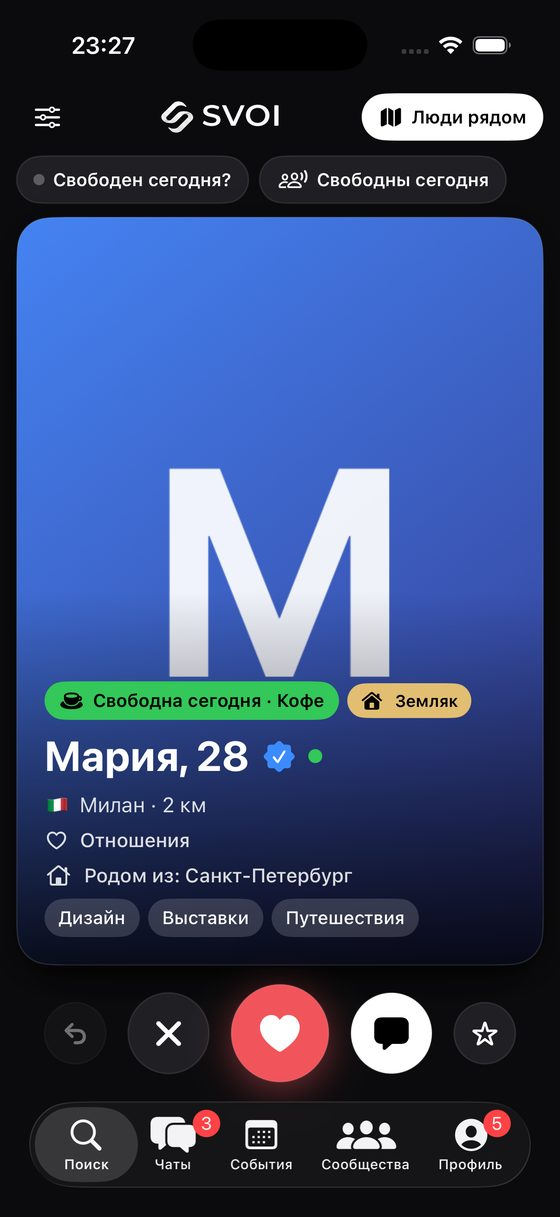
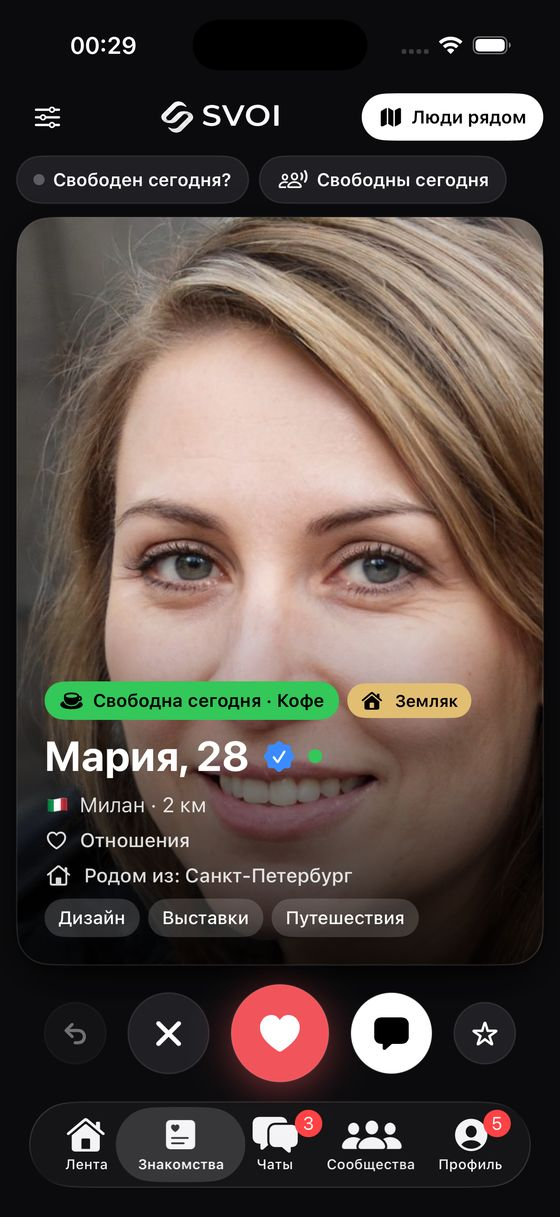
Лента, Reels и поиск на сайте; обновлены политика и условия

diff --git a/privacy/index.html b/privacy/index.html
@@ -16,6 +16,6 @@ footer{border-top:1px solid var(--line);color:var(--muted);font-size:13px;text-a
 footer a{color:var(--muted);margin:0 8px}
 </style></head>
 <body><header><a href="/"><img src="/assets/svoi-logo.png" alt="SVOI"></a><nav><a href="/privacy/">Конфиденциальность</a><a href="/terms/">Условия</a><a href="/support/">Поддержка</a></nav></header>
-<main><h1>Политика конфиденциальности</h1><p class="meta">Приложение SVOI («Свои»). Редакция от 16 ноября 2026 г.</p><h2>Кто обрабатывает данные</h2><p>Оператор (контролёр) персональных данных — MAKALOV SAKHAB, разработчик приложения SVOI. Связь по вопросам данных: <a href="mailto:team@svoiapp.info">team@svoiapp.info</a>. Мы соблюдаем Общий регламент ЕС по защите данных (GDPR).</p><h2>Какие данные мы собираем</h2><ul><li>Данные аккаунта: e-mail или идентификатор Apple ID (если вы входите через Apple, можно скрыть реальный адрес).</li><li>Анкета: имя, дата рождения (другим показываем только возраст), пол, кого вы ищете, цель знакомства, рост, образование, отношение к детям, курению и алкоголю, языки, интересы, текст «о себе», фотографии; по желанию — откуда вы родом, с какого года за границей, в чём можете помочь, голосовое приветствие и отметка «Свободен сегодня» (исчезает через 24 часа).</li><li>Местоположение: только с вашего разрешения и только «во время использования». Мы округляем координаты примерно до 1 км; другие пользователи видят лишь город и примерное расстояние, а на карте — только район размером около 2 км, а не точку.</li><li>Активность: лайки, избранное, просмотры анкет, сообщения (включая голосовые, фото и видео), участие во встречах и сообществах, жалобы и блокировки, время последнего входа.</li><li>Голосовые сообщения, фото и видео в чатах: записываются и отправляются только по вашему действию; доступ к ним имеют только участники этого чата или сообщества.</li></ul><h2>Особые категории данных</h2><p>Сведения о том, кого вы ищете, могут косвенно указывать на вашу сексуальную ориентацию. Мы обрабатываем их только для подбора анкет на основании вашего явного согласия (ст. 9(2)(a) GDPR), которое вы даёте, заполняя анкету. Вы можете изменить или удалить эти данные в любой момент.</p><h2>Зачем и на каком основании</h2><ul><li>Работа сервиса: показ анкет, поиск по расстоянию, чаты, встречи — исполнение договора (ст. 6(1)(b) GDPR).</li><li>Безопасность и модерация: фильтрация оскорблений, рассмотрение жалоб, блокировка нарушителей, защита от мошенничества — законный интерес (ст. 6(1)(f)).</li><li>Местоположение — ваше согласие (ст. 6(1)(a)), которое можно отозвать в настройках iPhone.</li><li>Выполнение требований закона — ст. 6(1)(c).</li></ul><h2>Кто видит ваши данные</h2><p>Другие пользователи видят вашу публичную анкету: имя, возраст, фото, город, примерное расстояние, текст и интересы. Дату рождения, e-mail и точные координаты не видит никто. Сообщения видят только участники переписки (и модерация — при рассмотрении жалобы). Мы не продаём данные и не передаём их рекламодателям.</p><h2>Где хранятся данные</h2><p>Данные хранятся на серверах Supabase в регионе ЕС (Франкфурт, Германия), который выступает нашим обработчиком данных. Вход через Apple обрабатывает Apple. Письма с кодами подтверждения отправляет сервис Resend (регион ЕС, Ирландия). Если обработчик передаёт данные за пределы ЕЭЗ, это происходит на основании стандартных договорных условий ЕС.</p><h2>Сколько храним</h2><p>Анкета — пока существует ваш аккаунт. Сообщения в чатах и сообществах (включая голосовые, фото и видео) автоматически удаляются через 60 дней; личная переписка удаляется раньше, если один из собеседников не заходил в приложение больше 30 дней. После удаления аккаунта анкета, фото, сообщения и симпатии удаляются сразу; резервные копии перезаписываются в течение 30 дней. Жалобы на нарушения могут храниться до 12 месяцев для защиты других пользователей.</p><h2>Ваши права</h2><p>Вы вправе: получить копию своих данных, исправить их, удалить аккаунт (Профиль → Настройки → Удалить аккаунт), ограничить обработку, возразить против неё, отозвать согласие, получить данные в машиночитаемом виде, подать жалобу в надзорный орган по защите данных в стране вашего проживания. Запросы отправляйте на <a href="mailto:team@svoiapp.info">team@svoiapp.info</a> — ответим в течение 30 дней.</p><h2>Безопасность</h2><p>Передача данных шифруется (HTTPS/TLS). Доступ к данным в базе ограничен правилами на уровне строк: пользователь получает только то, что ему положено видеть. Пароли хранятся в виде хеша.</p><h2>Дети</h2><p>Сервис не предназначен для лиц младше 18 лет. Если вы узнали, что пользователю нет 18, сообщите нам — аккаунт будет удалён.</p><h2>Изменения</h2><p>Мы можем обновлять эту Политику и сообщим о существенных изменениях в приложении. Редакция от 16 ноября 2026 г..</p></main>
+<main><h1>Политика конфиденциальности</h1><p class="meta">Приложение SVOI («Свои»). Редакция от 17 ноября 2026 г.</p><h2>Кто обрабатывает данные</h2><p>Оператор (контролёр) персональных данных — MAKALOV SAKHAB, разработчик приложения SVOI. Связь по вопросам данных: <a href="mailto:team@svoiapp.info">team@svoiapp.info</a>. Мы соблюдаем Общий регламент ЕС по защите данных (GDPR).</p><h2>Какие данные мы собираем</h2><ul><li>Данные аккаунта: e-mail или идентификатор Apple ID (если вы входите через Apple, можно скрыть реальный адрес).</li><li>Анкета: имя, дата рождения (другим показываем только возраст), пол, кого вы ищете, цель знакомства, рост, образование, отношение к детям, курению и алкоголю, языки, интересы, текст «о себе», фотографии; по желанию — откуда вы родом, с какого года за границей, в чём можете помочь, голосовое приветствие и отметка «Свободен сегодня» (исчезает через 24 часа).</li><li>Местоположение: только с вашего разрешения и только «во время использования». Мы округляем координаты примерно до 1 км; другие пользователи видят лишь город и примерное расстояние, а на карте — только район размером около 2 км, а не точку.</li><li>Активность: лайки, избранное, просмотры анкет, сообщения (включая голосовые, фото и видео), участие во встречах и сообществах, жалобы и блокировки, время последнего входа.</li><li>Голосовые сообщения, фото и видео в чатах: записываются и отправляются только по вашему действию; доступ к ним имеют только участники этого чата или сообщества.</li><li>Селфи для подтверждения профиля (по желанию): видит только модерация, чтобы сравнить с фото в анкете; удаляется через 7 дней после проверки.</li><li>Лента: @юзернейм, ваши публикации (фото, видео, подпись и #хэштеги, город из анкеты), лайки, комментарии и подписки.</li></ul><h2>Особые категории данных</h2><p>Сведения о том, кого вы ищете, могут косвенно указывать на вашу сексуальную ориентацию. Мы обрабатываем их только для подбора анкет на основании вашего явного согласия (ст. 9(2)(a) GDPR), которое вы даёте, заполняя анкету. Вы можете изменить или удалить эти данные в любой момент.</p><h2>Зачем и на каком основании</h2><ul><li>Работа сервиса: показ анкет, поиск по расстоянию, чаты, встречи — исполнение договора (ст. 6(1)(b) GDPR).</li><li>Безопасность и модерация: фильтрация оскорблений, рассмотрение жалоб, блокировка нарушителей, защита от мошенничества — законный интерес (ст. 6(1)(f)).</li><li>Местоположение — ваше согласие (ст. 6(1)(a)), которое можно отозвать в настройках iPhone.</li><li>Выполнение требований закона — ст. 6(1)(c).</li></ul><h2>Кто видит ваши данные</h2><p>Другие пользователи видят вашу публичную анкету: имя, возраст, фото, город, примерное расстояние, текст и интересы. Публикации в ленте, комментарии, @юзернейм, число подписчиков и подписок видны всем пользователям SVOI. Дату рождения, e-mail и точные координаты не видит никто. Сообщения видят только участники переписки (и модерация — при рассмотрении жалобы). Мы не продаём данные и не передаём их рекламодателям.</p><h2>Где хранятся данные</h2><p>Данные хранятся на серверах Supabase в регионе ЕС (Франкфурт, Германия), который выступает нашим обработчиком данных. Вход через Apple обрабатывает Apple. Письма с кодами подтверждения отправляет сервис Resend (регион ЕС, Ирландия). Если обработчик передаёт данные за пределы ЕЭЗ, это происходит на основании стандартных договорных условий ЕС.</p><h2>Сколько храним</h2><p>Анкета и публикации в ленте — пока существует ваш аккаунт или пока вы их не удалите. Сообщения в чатах и сообществах (включая голосовые, фото и видео) автоматически удаляются через 60 дней; личная переписка удаляется раньше, если один из собеседников не заходил в приложение больше 30 дней. После удаления аккаунта анкета, фото, публикации, комментарии, сообщения и симпатии удаляются сразу; резервные копии перезаписываются в течение 30 дней. Жалобы на нарушения могут храниться до 12 месяцев для защиты других пользователей.</p><h2>Ваши права</h2><p>Вы вправе: получить копию своих данных, исправить их, удалить аккаунт (Профиль → Настройки → Удалить аккаунт), ограничить обработку, возразить против неё, отозвать согласие, получить данные в машиночитаемом виде, подать жалобу в надзорный орган по защите данных в стране вашего проживания. Запросы отправляйте на <a href="mailto:team@svoiapp.info">team@svoiapp.info</a> — ответим в течение 30 дней.</p><h2>Безопасность</h2><p>Передача данных шифруется (HTTPS/TLS). Доступ к данным в базе ограничен правилами на уровне строк: пользователь получает только то, что ему положено видеть. Пароли хранятся в виде хеша.</p><h2>Дети</h2><p>Сервис не предназначен для лиц младше 18 лет. Если вы узнали, что пользователю нет 18, сообщите нам — аккаунт будет удалён.</p><h2>Изменения</h2><p>Мы можем обновлять эту Политику и сообщим о существенных изменениях в приложении. Редакция от 17 ноября 2026 г.</p></main>
 <footer>© 2026 SVOI · «Свои» — знакомства и общение для русскоязычных в Европе<br><a href="/privacy/">Политика конфиденциальности</a><a href="/terms/">Условия использования</a><a href="/support/">Поддержка</a><a href="mailto:team@svoiapp.info">team@svoiapp.info</a></footer>
 </body></html>

diff --git a/terms/index.html b/terms/index.html
@@ -16,6 +16,6 @@ footer{border-top:1px solid var(--line);color:var(--muted);font-size:13px;text-a
 footer a{color:var(--muted);margin:0 8px}
 </style></head>
 <body><header><a href="/"><img src="/assets/svoi-logo.png" alt="SVOI"></a><nav><a href="/privacy/">Конфиденциальность</a><a href="/terms/">Условия</a><a href="/support/">Поддержка</a></nav></header>
-<main><h1>Условия использования</h1><p class="meta">Приложение SVOI («Свои»). Редакция от 16 ноября 2026 г.</p><h2>1. Общие положения</h2><p>Эти Условия регулируют использование мобильного приложения SVOI («Свои», далее — «Сервис»). Сервис предоставляет MAKALOV SAKHAB (далее — «мы»). Устанавливая приложение или создавая аккаунт, вы принимаете эти Условия, Политику конфиденциальности и Правила сообщества. Если вы не согласны — не пользуйтесь Сервисом.</p><h2>2. Возраст</h2><p>Сервис предназначен только для лиц старше 18 лет. Регистрируясь, вы подтверждаете, что вам исполнилось 18 лет. Мы удаляем аккаунты, если есть основания считать, что пользователю нет 18 лет.</p><h2>3. Аккаунт</h2><p>Вы обязуетесь указывать о себе правдивые сведения, использовать только свои фотографии и не передавать доступ к аккаунту третьим лицам. Один человек — один аккаунт. Вы отвечаете за действия, совершённые в вашем аккаунте.</p><h2>4. Что запрещено</h2><p>Запрещено: публиковать чужие или непристойные фотографии; оскорблять, угрожать, преследовать других пользователей; рассылать спам и рекламу; просить деньги, продвигать финансовые схемы и мошенничество; предлагать платные интимные услуги; выдавать себя за другого человека; распространять материалы, нарушающие закон или права третьих лиц; использовать автоматические средства сбора данных. Подробнее — в Правилах сообщества. У нас нулевая терпимость к оскорбительному контенту и нарушителям.</p><h2>5. Контент пользователей</h2><p>Вы сохраняете права на свои фото и тексты, но предоставляете нам неисключительное бесплатное право хранить и показывать их другим пользователям в рамках работы Сервиса. Мы вправе без предупреждения удалить контент и ограничить или заблокировать аккаунт, нарушающий Условия или Правила. Жалобы рассматриваются модерацией, как правило, в течение 24 часов.</p><h2>6. Встречи и безопасность</h2><p>Мы не проверяем личность пользователей и не несём ответственности за их поведение онлайн и офлайн. Встречайтесь в людных местах, сообщайте близким о встрече и не переводите деньги незнакомым людям. Сообщайте нам о любом подозрительном поведении через кнопку «Пожаловаться».</p><h2>7. Стоимость</h2><p>Все функции SVOI сейчас бесплатны. Если в будущем появятся платные возможности, мы заранее сообщим об этом и обновим эти Условия; бесплатные функции, которыми вы уже пользуетесь, не станут платными без предупреждения.</p><h2>8. Ограничение ответственности</h2><p>Сервис предоставляется «как есть». Мы стараемся обеспечить его бесперебойную работу, но не гарантируем отсутствие сбоев. В пределах, допускаемых законом, мы не отвечаем за косвенные убытки. Ничто в этих Условиях не ограничивает ответственность, которую нельзя ограничить по закону.</p><h2>9. Удаление аккаунта</h2><p>Вы можете в любой момент удалить аккаунт в разделе Профиль → Настройки → Удалить аккаунт. Анкета, фото, симпатии и сообщения (в том числе голосовые, фото и видео) удаляются безвозвратно.</p><h2>10. Изменения и контакты</h2><p>Мы можем обновлять эти Условия; о существенных изменениях сообщим в приложении. Вопросы и жалобы: <a href="mailto:team@svoiapp.info">team@svoiapp.info</a>. Применимое право — право страны вашего проживания в ЕС в части обязательных норм защиты потребителей.</p><h2>Правила сообщества</h2><ul><li>Будьте собой. Только ваши настоящие и свежие фото. Без чужих лиц, знаменитостей, картинок из интернета. Один человек — одна анкета.</li><li>Уважение. Никаких оскорблений, угроз, травли, дискриминации по национальности, религии, полу или ориентации. Нет — значит нет.</li><li>Без откровенного контента. Запрещены обнажённые и сексуальные фото, а также непрошеные интимные сообщения. Нарушителей блокируем сразу и навсегда.</li><li>Без спама и мошенничества. Нельзя просить деньги, предлагать «инвестиции», криптовалюту, рекламировать товары и услуги, звать в другие мессенджеры с целью продажи.</li><li>Только 18+. Если кажется, что собеседнику нет 18 лет, — пожалуйтесь, мы проверим.</li><li>Сообщайте о нарушениях. Кнопка «Пожаловаться» есть в каждой анкете, чате, встрече и сообществе. Жалоба анонимна. Заблокированный человек больше не увидит вас и не сможет написать.</li></ul></main>
+<main><h1>Условия использования</h1><p class="meta">Приложение SVOI («Свои»). Редакция от 17 ноября 2026 г.</p><h2>1. Общие положения</h2><p>Эти Условия регулируют использование мобильного приложения SVOI («Свои», далее — «Сервис»). Сервис предоставляет MAKALOV SAKHAB (далее — «мы»). Устанавливая приложение или создавая аккаунт, вы принимаете эти Условия, Политику конфиденциальности и Правила сообщества. Если вы не согласны — не пользуйтесь Сервисом.</p><h2>2. Возраст</h2><p>Сервис предназначен только для лиц старше 18 лет. Регистрируясь, вы подтверждаете, что вам исполнилось 18 лет. Мы удаляем аккаунты, если есть основания считать, что пользователю нет 18 лет.</p><h2>3. Аккаунт</h2><p>Вы обязуетесь указывать о себе правдивые сведения, использовать только свои фотографии и не передавать доступ к аккаунту третьим лицам. Один человек — один аккаунт. Вы отвечаете за действия, совершённые в вашем аккаунте.</p><h2>4. Что запрещено</h2><p>Запрещено: публиковать чужие или непристойные фотографии; оскорблять, угрожать, преследовать других пользователей; рассылать спам и рекламу; просить деньги, продвигать финансовые схемы и мошенничество; предлагать платные интимные услуги; выдавать себя за другого человека; распространять материалы, нарушающие закон или права третьих лиц; использовать автоматические средства сбора данных. Подробнее — в Правилах сообщества. У нас нулевая терпимость к оскорбительному контенту и нарушителям.</p><h2>5. Контент пользователей</h2><p>Публикации в ленте (фото, видео, подписи) и комментарии появляются сразу и видны всем пользователям; за их содержание отвечает автор. Вы сохраняете права на свои фото, видео и тексты, но предоставляете нам неисключительное бесплатное право хранить и показывать их другим пользователям в рамках работы Сервиса. Мы вправе без предупреждения удалить контент и ограничить или заблокировать аккаунт, нарушающий Условия или Правила. Жалобы рассматриваются модерацией, как правило, в течение 24 часов.</p><h2>6. Встречи и безопасность</h2><p>Мы не проверяем личность пользователей и не несём ответственности за их поведение онлайн и офлайн. Встречайтесь в людных местах, сообщайте близким о встрече и не переводите деньги незнакомым людям. Сообщайте нам о любом подозрительном поведении через кнопку «Пожаловаться».</p><h2>7. Стоимость</h2><p>Все функции SVOI сейчас бесплатны. Если в будущем появятся платные возможности, мы заранее сообщим об этом и обновим эти Условия; бесплатные функции, которыми вы уже пользуетесь, не станут платными без предупреждения.</p><h2>8. Ограничение ответственности</h2><p>Сервис предоставляется «как есть». Мы стараемся обеспечить его бесперебойную работу, но не гарантируем отсутствие сбоев. В пределах, допускаемых законом, мы не отвечаем за косвенные убытки. Ничто в этих Условиях не ограничивает ответственность, которую нельзя ограничить по закону.</p><h2>9. Удаление аккаунта</h2><p>Вы можете в любой момент удалить аккаунт в разделе Профиль → Настройки → Удалить аккаунт. Анкета, фото, публикации, комментарии, симпатии и сообщения (в том числе голосовые, фото и видео) удаляются безвозвратно.</p><h2>10. Изменения и контакты</h2><p>Мы можем обновлять эти Условия; о существенных изменениях сообщим в приложении. Вопросы и жалобы: <a href="mailto:team@svoiapp.info">team@svoiapp.info</a>. Применимое право — право страны вашего проживания в ЕС в части обязательных норм защиты потребителей.</p><h2>Правила сообщества</h2><ul><li>Будьте собой. Только ваши настоящие и свежие фото. Без чужих лиц, знаменитостей, картинок из интернета. Один человек — одна анкета.</li><li>Уважение. Никаких оскорблений, угроз, травли, дискриминации по национальности, религии, полу или ориентации. Нет — значит нет.</li><li>Без откровенного контента. Запрещены обнажённые и сексуальные фото, а также непрошеные интимные сообщения. Нарушителей блокируем сразу и навсегда.</li><li>Без спама и мошенничества. Нельзя просить деньги, предлагать «инвестиции», криптовалюту, рекламировать товары и услуги, звать в другие мессенджеры с целью продажи.</li><li>Только 18+. Если кажется, что собеседнику нет 18 лет, — пожалуйтесь, мы проверим.</li><li>Сообщайте о нарушениях. Кнопка «Пожаловаться» есть в каждой анкете, публикации, комментарии, чате, встрече и сообществе. Жалоба анонимна. Заблокированный человек больше не увидит вас и не сможет написать.</li></ul></main>
 <footer>© 2026 SVOI · «Свои» — знакомства и общение для русскоязычных в Европе<br><a href="/privacy/">Политика конфиденциальности</a><a href="/terms/">Условия использования</a><a href="/support/">Поддержка</a><a href="mailto:team@svoiapp.info">team@svoiapp.info</a></footer>
 </body></html>

diff --git a/index.html b/index.html
@@ -4,12 +4,12 @@
 <meta charset="utf-8">
 <meta name="viewport" content="width=device-width,initial-scale=1,viewport-fit=cover">
 <title>SVOI — свои люди в Европе</title>
-<meta name="description" content="SVOI («Свои») — бесплатное приложение для русскоязычных в Европе: знакомства, чаты стран и городов, встречи, люди рядом на карте.">
+<meta name="description" content="SVOI («Свои») — бесплатное приложение для русскоязычных в Европе: лента с фото и Reels, знакомства, чаты стран и городов, встречи, люди рядом на карте.">
 <meta name="theme-color" content="#0b0b0d">
 <meta property="og:type" content="website">
 <meta property="og:url" content="https://svoiapp.info/">
 <meta property="og:title" content="SVOI — свои люди в Европе">
-<meta property="og:description" content="Знакомства, чаты городов и встречи для русскоязычных в Европе. Бесплатно.">
+<meta property="og:description" content="Лента, Reels, знакомства, чаты городов и встречи для русскоязычных в Европе. Бесплатно.">
 <meta property="og:image" content="https://svoiapp.info/assets/og.jpg">
 <meta name="twitter:card" content="summary_large_image">
 <link rel="icon" href="/assets/svoi-symbol.png">
@@ -188,6 +188,7 @@ footer img{height:22px;opacity:.85}
   <div class="wrap">
     <a href="/" aria-label="SVOI — на главную"><img src="/assets/svoi-logo.png" alt="SVOI"></a>
     <nav>
+      <a class="hide-m" href="#feed">Лента</a>
       <a class="hide-m" href="#features">Возможности</a>
       <a class="hide-m" href="#how">Как это работает</a>
       <a class="hide-m" href="#faq">Вопросы</a>
@@ -203,13 +204,13 @@ footer img{height:22px;opacity:.85}
     <div>
       <span class="pill reveal"><i></i>Для русскоязычных в Европе · 18+</span>
       <h1 class="reveal d1">Свои люди —<br><span class="grad">рядом с тобой</span></h1>
-      <p class="lead reveal d2">Знакомства, чаты стран и городов, встречи и люди рядом на карте. Найди своих в Милане, Берлине, Барселоне или Праге — и встреться уже сегодня.</p>
+      <p class="lead reveal d2">Лента с фото и Reels, знакомства, чаты стран и городов, встречи и люди рядом на карте. Найди своих в Милане, Берлине, Барселоне или Праге — и встреться уже сегодня.</p>
       <div class="cta reveal d3">
         <a class="btn btn-white" href="https://apps.apple.com/app/id6835577482">
           <svg viewBox="0 0 24 24" fill="none" stroke="currentColor" stroke-width="2" stroke-linecap="round" stroke-linejoin="round" aria-hidden="true"><rect x="6" y="2" width="12" height="20" rx="3"/><path d="M11 18h2"/></svg>
           Скачать в App Store
         </a>
-        <a class="btn btn-ghost" href="#features">Что внутри</a>
+        <a class="btn btn-ghost" href="#feed">Что внутри</a>
       </div>
       <div class="trust reveal d3">
         <span>✓ <b>Бесплатно</b> — все функции</span>
@@ -218,9 +219,9 @@ footer img{height:22px;opacity:.85}
       </div>
     </div>
     <div class="phones" id="phones" aria-hidden="true">
-      <div class="phone p2"><img src="/assets/s-italy.jpg" alt="" loading="eager"></div>
+      <div class="phone p2"><img src="/assets/s-feed.jpg" alt="" loading="eager"></div>
       <div class="phone p1"><img src="/assets/s-discover.jpg" alt="" loading="eager"></div>
-      <div class="phone p3"><img src="/assets/s-map.jpg" alt="" loading="eager"></div>
+      <div class="phone p3"><img src="/assets/s-reels.jpg" alt="" loading="eager"></div>
       <div class="bubble bu1"><b>● Свободна сегодня</b><small>Мария · кофе в центре</small></div>
       <div class="bubble bu2">🏠 Земляк рядом<small>Тоже из Петербурга · 2 км</small></div>
     </div>
@@ -242,6 +243,45 @@ footer img{height:22px;opacity:.85}
     <div class="stat reveal d3"><b>18+</b><span>только взрослые, модерация</span></div>
   </div>
 </div>
+
+<section class="block" id="feed">
+  <div class="wrap">
+    <div class="center reveal">
+      <div class="eyebrow">Новое · Лента</div>
+      <h2>Фото, видео и Reels<br>от своих людей</h2>
+      <p class="sub">Делитесь жизнью за границей: публикуйте фото и видео с описанием и #хэштегами, подписывайтесь на своих и смотрите, что происходит в вашем городе.</p>
+    </div>
+
+    <div class="bento">
+      <div class="card c-third glow-coral reveal">
+        <span class="tag t-new">НОВОЕ</span>
+        <h3>Лента</h3>
+        <p>Рекомендации, подписки и «Мой город». Лайки, комментарии с ответами и кликабельные #хэштеги.</p>
+        <img class="shot" src="/assets/s-feed.jpg" alt="Лента публикаций" loading="lazy">
+      </div>
+      <div class="card c-third glow-violet reveal d1">
+        <span class="tag t-violet">Reels</span>
+        <h3>Короткие видео</h3>
+        <p>Листайте видео на весь экран, ставьте лайки и отправляйте понравившееся друзьям в личку.</p>
+        <img class="shot" src="/assets/s-reels.jpg" alt="Reels" loading="lazy">
+      </div>
+      <div class="card c-third glow-green reveal d2">
+        <span class="tag t-gold">Профиль</span>
+        <h3>@юзернейм и подписчики</h3>
+        <p>Свой профиль как в соцсети: публикации, подписчики и подписки. Найдут по имени или @юзернейму.</p>
+        <img class="shot" src="/assets/s-profile.jpg" alt="Профиль с публикациями" loading="lazy">
+      </div>
+      <div class="card c-full c-events reveal">
+        <div>
+          <span class="tag t-coral">Поиск</span>
+          <h3>Рекомендации людей рядом</h3>
+          <p>Откройте поиск — и сразу увидите своих из вашего города и страны, а ниже — интересные публикации. Подписка в одно касание.</p>
+        </div>
+        <div class="shotbox"><img class="shot" src="/assets/s-search.jpg" alt="Поиск и рекомендации" loading="lazy"></div>
+      </div>
+    </div>
+  </div>
+</section>
 
 <section class="block" id="features">
   <div class="wrap">
@@ -372,12 +412,13 @@ footer img{height:22px;opacity:.85}
       <h2>Частые вопросы</h2>
     </div>
     <div class="faq">
-      <details class="reveal"><summary>Это правда бесплатно?</summary><p>Да. Все функции — знакомства, чаты, карта, встречи, голосовые — бесплатны. Подписок нет.</p></details>
+      <details class="reveal"><summary>Это правда бесплатно?</summary><p>Да. Все функции — лента и Reels, знакомства, чаты, карта, встречи, голосовые — бесплатны. Подписок нет.</p></details>
+      <details class="reveal"><summary>Можно публиковать фото и видео?</summary><p>Да. В ленте можно выкладывать до 20 фото или видео с описанием и #хэштегами — публикация появляется сразу. Можно ставить лайки, комментировать, отвечать на комментарии и делиться постами в личку. На любую публикацию можно пожаловаться, а автора — заблокировать.</p></details>
       <details class="reveal"><summary>Нужен ли взаимный лайк, чтобы написать?</summary><p>Нет. Написать можно любому сразу. Если хотите, в настройках можно разрешить сообщения только от взаимных симпатий.</p></details>
       <details class="reveal"><summary>Кто видит, где я нахожусь?</summary><p>Никто не видит точный адрес. Другие видят город и примерное расстояние, а на карте — только район размером около 2 км. Геолокацию можно выключить.</p></details>
       <details class="reveal"><summary>В каких странах работает SVOI?</summary><p>По всей Европе: Италия, Германия, Испания, Франция, Чехия, Кипр, Португалия, Сербия, Черногория, Польша и другие — больше 30 стран и 100 городских чатов.</p></details>
       <details class="reveal"><summary>Что такое «Свободен сегодня»?</summary><p>Это отметка на 24 часа: вы показываете, что готовы сегодня к кофе, прогулке, ужину или спорту. Таких людей видно первыми в поиске и на карте.</p></details>
-      <details class="reveal"><summary>Как удалить аккаунт?</summary><p>Профиль → Настройки → Удалить аккаунт. Анкета, фото и сообщения удаляются сразу. Вопросы — на <a href="mailto:team@svoiapp.info">team@svoiapp.info</a>.</p></details>
+      <details class="reveal"><summary>Как удалить аккаунт?</summary><p>Профиль → Настройки → Удалить аккаунт. Анкета, фото, публикации и сообщения удаляются сразу. Вопросы — на <a href="mailto:team@svoiapp.info">team@svoiapp.info</a>.</p></details>
     </div>
 
     <div class="final reveal">
